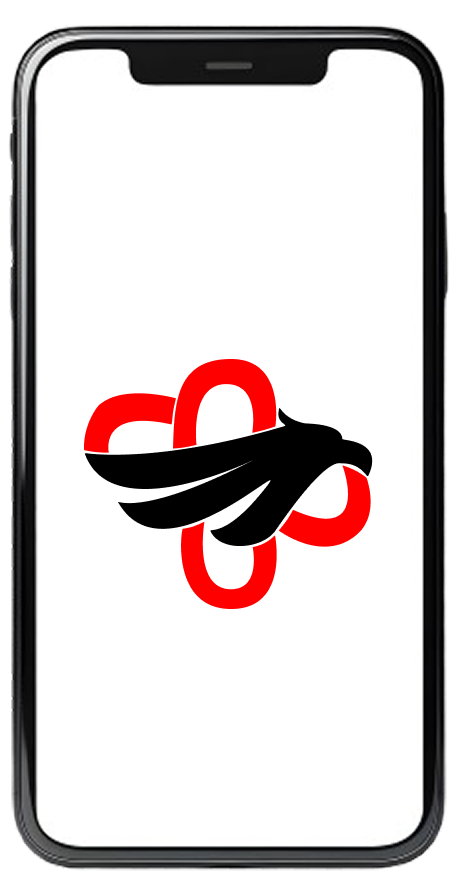
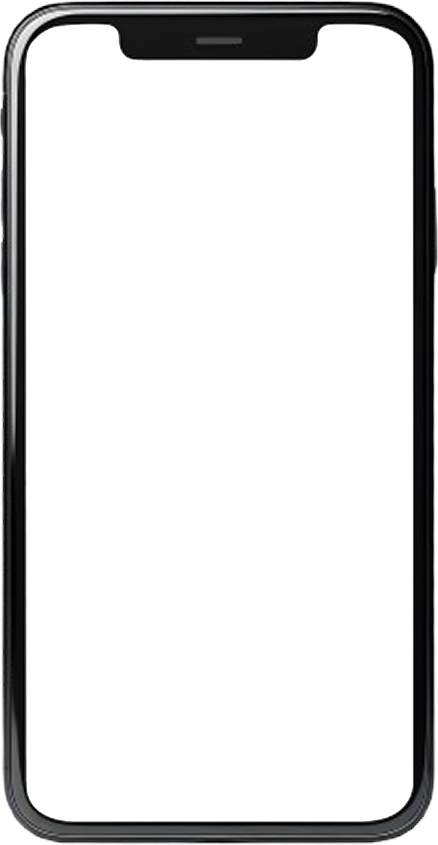
Home page complete

Changed region(s): [[0.0, 0.0, 1.0, 1.0], [0.1781, 0.4, 0.8311, 0.7077]]

diff --git a/app/faqs/page.js b/app/faqs/page.js
@@ -1,6 +1,13 @@
 'use client'
 import Accordion from 'react-bootstrap/Accordion';
+import SocialBox from '../components/commons/socialBox';
 
+const faqsdata = [
+    {'title':'How does Peekshorts summarize news?','content':'lorem ipsum dotemm bottem'},
+    {'title':'Is the news unbiased?','content':'lorem ipsum dotemm bottem'},
+    {'title':'Can I suggest a news source?','content':'lorem ipsum dotemm bottem'},
+    {'title':'Is Peekshorts free?','content':'lorem ipsum dotemm bottem'},
+]
 
 export default function FaqsPage(){
     return(
@@ -16,66 +23,23 @@ export default function FaqsPage(){
                         <h2 className="fs-1">Got Questions?<br/> 
                             <span className="text-danger">We’ve Got Answers.</span>
                         </h2>
+                        <p className='small'>We believe in transparency and keeping things simple. Here are some common questions about Peekshorts:</p>
                     </div>
                     <div className='col-md-6'>
                     <Accordion>
-                            <Accordion.Item eventKey="0">
-                                <Accordion.Header>How does Peekshorts summarize news?</Accordion.Header>
+                        {faqsdata.map((faq,index)=>(
+                            <Accordion.Item eventKey={index} index={index} className='mb-3 rounded-0 border'>
+                                <Accordion.Header >{faq.title}</Accordion.Header>
                                 <Accordion.Body>
-                                Lorem ipsum dolor sit amet, consectetur adipiscing elit, sed do
-                                eiusmod tempor incididunt ut labore et dolore magna aliqua. Ut enim ad
-                                minim veniam, quis nostrud exercitation ullamco laboris nisi ut
-                                aliquip ex ea commodo consequat. Duis aute irure dolor in
-                                reprehenderit in voluptate velit esse cillum dolore eu fugiat nulla
-                                pariatur. Excepteur sint occaecat cupidatat non proident, sunt in
-                                culpa qui officia deserunt mollit anim id est laborum.
+                                {faq.content}
                                 </Accordion.Body>
                             </Accordion.Item>
-
-                            <Accordion.Item eventKey="1">
-                                <Accordion.Header> Is the news unbiased?</Accordion.Header>
-                                <Accordion.Body>
-                                Lorem ipsum dolor sit amet, consectetur adipiscing elit, sed do
-                                eiusmod tempor incididunt ut labore et dolore magna aliqua. Ut enim ad
-                                minim veniam, quis nostrud exercitation ullamco laboris nisi ut
-                                aliquip ex ea commodo consequat. Duis aute irure dolor in
-                                reprehenderit in voluptate velit esse cillum dolore eu fugiat nulla
-                                pariatur. Excepteur sint occaecat cupidatat non proident, sunt in
-                                culpa qui officia deserunt mollit anim id est laborum.
-                                </Accordion.Body>
-                            </Accordion.Item>
-
-                            <Accordion.Item eventKey="1">
-                                <Accordion.Header>Can I suggest a news source?</Accordion.Header>
-                                <Accordion.Body>
-                                Lorem ipsum dolor sit amet, consectetur adipiscing elit, sed do
-                                eiusmod tempor incididunt ut labore et dolore magna aliqua. Ut enim ad
-                                minim veniam, quis nostrud exercitation ullamco laboris nisi ut
-                                aliquip ex ea commodo consequat. Duis aute irure dolor in
-                                reprehenderit in voluptate velit esse cillum dolore eu fugiat nulla
-                                pariatur. Excepteur sint occaecat cupidatat non proident, sunt in
-                                culpa qui officia deserunt mollit anim id est laborum.
-                                </Accordion.Body>
-                            </Accordion.Item>
-
-                            <Accordion.Item eventKey="1">
-                                <Accordion.Header> Is Peekshorts free?</Accordion.Header>
-                                <Accordion.Body>
-                                Lorem ipsum dolor sit amet, consectetur adipiscing elit, sed do
-                                eiusmod tempor incididunt ut labore et dolore magna aliqua. Ut enim ad
-                                minim veniam, quis nostrud exercitation ullamco laboris nisi ut
-                                aliquip ex ea commodo consequat. Duis aute irure dolor in
-                                reprehenderit in voluptate velit esse cillum dolore eu fugiat nulla
-                                pariatur. Excepteur sint occaecat cupidatat non proident, sunt in
-                                culpa qui officia deserunt mollit anim id est laborum.
-                                </Accordion.Body>
-                            </Accordion.Item>
-
-
-                            </Accordion>
+                        ))}
+                    </Accordion>
                     </div>
                 </div>
             </div>
+            <SocialBox/>
         </>
     )
 }

diff --git a/app/about/page.js b/app/about/page.js
@@ -11,14 +11,41 @@ export default function About(){
                         <img className="w-100 rounded-4" src="https://images.pexels.com/photos/3183197/pexels-photo-3183197.jpeg?cs=srgb&dl=pexels-fauxels-3183197.jpg&fm=jpg" /> 
                     </div>
                     <div className="col-md-6">
-                        <h2>We team</h2>
-                        <p>Lorem ipsum dolor sit amet, consectetur adipiscing elit. Mauris egestas pharetra velit in vestibulum. Proin id felis nisl. Maecenas velit leo, aliquam a nisi in, ultrices dapibus eros. Integer sollicitudin leo id ligula aliquet, in efficitur leo scelerisque. Nullam auctor tincidunt massa vel pretium.<br/> Curabitur sed justo sit amet tellus ornare sollicitudin ut a neque. Donec mauris est, ullamcorper sit amet porttitor vulputate, condimentum at odio. Cras justo erat, consectetur id erat a, posuere convallis neque. Nunc malesuada eget turpis quis porta. Mauris suscipit pretium turpis, at malesuada tortor euismod id. Aliquam sagittis posuere leo. Sed vitae quam vitae mauris rutrum euismod. Phasellus blandit, augue quis sollicitudin venenatis, libero arcu tincidunt risus, sit amet maximus tellus sapien dictum sapien. Donec at hendrerit metus.<br/> Maecenas mattis velit in molestie feugiat. Vestibulum ante ipsum primis in faucibus orci luctus et ultrices posuere cubilia curae;</p>
+                        <h2 className="fw-semibold">Revolutionizing News – One Summary at a Time</h2>
+                        <p>In an era where information overload is the norm, staying informed shouldn't feel like a chore. At Peekshorts, we believe news should be quick, reliable, and easy to digest. </p>
+                        <p>That’s why we’ve built an AI-powered platform that delivers 60-word summaries of the most important stories—so you can stay updated in seconds, not hours.</p>
                     </div>
                 </div>
             </div>
 
-            <div className="my-5 container">
-                <img className="w-100 rounded-4" src="https://workspacestrat.com/wp-content/uploads/2022/07/workspace-strategies-coworking-office-spaces-team-builing-teamwork.jpg" />
+            <div className="container py-5">
+                <h2 className="text-center fw-bold">Why Choose Peekshorts?</h2>
+                <div className="row my-5">
+                    <div className="col-md-3">
+                        <h4 className="fw-semibold">Seamless News Bites</h4>
+                        <p className="small">Traditional articles can be overwhelming. Peekshorts simplifies the news, distilling key facts into short, engaging summaries without losing their essence.
+                        </p>
+                    </div>
+                    <div className="col-md-3">
+                        <h4 className="fw-semibold">Fast & Reliable Updates                        </h4>
+                        <p className="small">We prioritize accuracy and speed, ensuring you receive the latest news without delays or unnecessary clutter.
+                        </p>
+                    </div>
+                    <div className="col-md-3">
+                        <h4 className="fw-semibold">Unbiased & Fact-Driven</h4>
+                        <p className="small">We cut through opinions and speculation to bring you neutral, well-researched content, sourced from credible news platforms.</p>
+                    </div>
+                    <div className="col-md-3">
+                        <h4 className="fw-semibold">AI Tailored Insights</h4>
+                        <p className="small">Our smart algorithms understand what matters to you. Get a customized feed based on your interests—whether it’s politics, business, tech, or entertainment.</p>
+                    </div>
+                </div>
+            </div>
+
+            <div className="container-fluid py-5 bg-dark">
+                <div className="container">
+                    
+                </div>
             </div>
         </>
     )

diff --git a/app/components/home-components/homeFeaturesSesction.js b/app/components/home-components/homeFeaturesSesction.js
@@ -1,3 +1,9 @@
+import { IoNewspaperSharp } from "react-icons/io5";
+import { MdOutlineQuickreply } from "react-icons/md";
+import { MdPermDeviceInformation } from "react-icons/md";
+import { GiVibratingSmartphone } from "react-icons/gi";
+
+
 
 
 export default function HomeFeaturesSection(){
@@ -8,25 +14,45 @@ export default function HomeFeaturesSection(){
             <h4 className=" fs-1">See Everything in Action – News at Lightning Speed!</h4>
             
             </div>
-            <div className="row justify-content-center align-items-center">
+            <div className="row justify-content-center align-items-center px-4">
                 <div className="col-md-4">
-                <img style={{ width: 'auto', height: '70vh' }} className="d-block mx-auto mt-5" src={'/images/home/peakshorts-Mobile.png'} />
+                <div className="mobile-wrapper-home my-3">   
+                    {/* <img  className="h-100" src={'/images/home/peakshorts-Mobile.png'} /> */}
+                    <div className="mobile-slides">
+                        <div className="mobile-slide">
+                            <img className="w-100" src="/images/logos/Peekshorts logo.svg" />
+                        </div>
+                    </div>
+                </div> 
                 </div>
 
                 <div className="col-md-4">
                     <div className="row g-3">
-                        <div className="col-md-6">
-                            <div className="feature-box"></div>
+                        <div className="col-6">
+                            <div className="feature-box">
+                            <IoNewspaperSharp size={'5rem'} />
+                            <h5 className="fw-semibold">Latest News</h5>
+                            </div>
                         </div>
-                        <div className="col-md-6">
-                            <div className="feature-box"></div>
+                        <div className="col-6">
+                            <div className="feature-box">
+                            <MdPermDeviceInformation size={'5rem'} />
+                            <h5 className="fw-semibold">Never miss an update</h5>
+                            </div>
                         </div>
-                        <div className="col-md-6">
-                            <div className="feature-box"></div>
+                        <div className="col-6">
+                            <div className="feature-box">
+                            <MdOutlineQuickreply  size={'5rem'} />
+                            <h5 className="fw-semibold">Flash Support</h5>
+                            </div>
                         </div>
-                        <div className="col-md-6">
-                            <div className="feature-box"></div>
+                        <div className="col-6">
+                            <div className="feature-box">
+                            <GiVibratingSmartphone size={'5rem'} />
+                            <h5 className="fw-semibold">Stay ahead of the curve</h5>
+                            </div>
                         </div>
+                        
                     </div>
                 </div>
             

diff --git a/app/style.css b/app/style.css
@@ -1,8 +1,9 @@
-@import url('https://fonts.googleapis.com/css2?family=Poppins:ital,wght@0,100;0,200;0,300;0,400;0,500;0,600;0,700;0,800;0,900;1,100;1,200;1,300;1,400;1,500;1,600;1,700;1,800;1,900&display=swap');
+@import url('https://fonts.googleapis.com/css2?family=Roboto+Condensed:ital,wght@0,100..900;1,100..900&display=swap');
 
 :root {
-  --theme-color:#ff651b ;
+  --theme-color:#ff353a ;
   --theme-secondary-color: rgb(44, 128, 255);
+  --light-gray:#e3e3e3;
 }
 
 /* @media (prefers-color-scheme: dark) {
@@ -20,8 +21,12 @@ html,
 body {
   max-width: 100vw;
   overflow-x: hidden;
-  font-family: "Poppins", serif;
+  font-family: "Roboto Condensed", serif;
 
+}
+
+.text-theme{
+  color: var(--theme-color) !important;
 }
 
 .bg-theme{
@@ -86,7 +91,7 @@ body {
 
 .news-box-label{
   display: inline-block;
-  background: red;
+  background:var(--theme-color);
   color: white;
   padding: 2px 18px;
   text-align: center;
@@ -130,9 +135,64 @@ body {
 .feature-box{
   width: 100%;
   aspect-ratio: 4/4;
-  background: grey;
+  background: var(--light-gray);
   border-radius: 1rem;
+  display: flex;
+  flex-direction: column;
+  align-items: center;
+  justify-content: center;
+  padding: 1rem;
 }
+
+.mobile-wrapper-home{
+  position: relative;
+  width: auto;
+  height: 70vh;
+  margin:auto;
+  aspect-ratio: 8/16;
+  border: 14px solid black;
+  border-radius: 1.5rem;
+  z-index: 5;
+}
+
+.mobile-wrapper-home::before{
+  content: "";
+  height: 8px;
+  width: 8px;
+  position: absolute;
+  top: -11px;
+  left: 0;
+  right: 0;
+  margin: auto;
+  border-radius: 80px;
+  background: #fff;
+  z-index: 6;
+  opacity: 0.6;
+  overflow: hidden;
+}
+
+.mobile-slides{
+  position: absolute;
+  top:0;
+  left: 0;
+  height: 100%;
+  width: 100%;
+  z-index: 2;
+  border-radius: 0.6rem;
+  overflow: hidden;
+}
+.mobile-slide{
+  height: 100%;
+  width: 100%;
+  background: white;
+  padding: 1.2rem;
+  display: flex;
+  flex-direction: column;
+  align-items: center;
+  justify-content:center ;
+}
+
+
 
 .news-cartd-section{
   height: 100vh;

diff --git a/app/components/commons/navbar.js b/app/components/commons/navbar.js
@@ -9,18 +9,18 @@ export default function Navbar(){
 
     return(
     <>
-        <nav className="navbar navbar-fixed navbar-expand-lg bg-theme ">
+        <nav className="navbar navbar-fixed navbar-expand-lg bg-light">
             <div className="container">
-                <Link className="navbar-brand text-white" href={'/'}>PeekShorts</Link>
+                <Link className="navbar-brand" href={'/'}> <img src="/images/logos/Peekshorts logo.svg" width={'60px'} /> Peek<strong className="text-theme">Shorts</strong></Link>
                 <button className="navbar-toggler" onClick={()=>{setShow(!show)}} type="button" data-bs-toggle="collapse" data-bs-target="#navbarNavAltMarkup" aria-controls="navbarNavAltMarkup" aria-expanded="false" aria-label="Toggle navigation">
                 <span className="navbar-toggler-icon"></span>
                 </button>
                 <div className={`collapse navbar-collapse ${show?'show':''}`} id="navbarNavAltMarkup">
                 <div className="navbar-nav ms-auto" onClick={()=>{setShow(false)}}>
                     {/* <Link className="nav-link text-white active" href={'/news'}>News</Link> */}
-                    <Link className="nav-link text-white" href={'/about'}>About</Link>
-                    <Link className="nav-link text-white" href={'/contact'}>Contact</Link>
-                    <Link className="nav-link text-white" href={'/download'}>Download Now</Link>
+                    <Link className="nav-link " href={'/about'}>About</Link>
+                    <Link className="nav-link " href={'/contact'}>Contact</Link>
+                    <Link className="nav-link " href={'/download'}>Download Now</Link>
 
                 </div>
                 </div>

diff --git a/app/components/commons/socialBox.js b/app/components/commons/socialBox.js
@@ -1,0 +1,27 @@
+import { FaFacebook  } from "react-icons/fa";
+import { FaSquareXTwitter } from "react-icons/fa6";
+import { BsInstagram } from "react-icons/bs";
+
+
+
+
+export default function SocialBox({title,content}){
+    return(
+        <>
+        <div className="container py-5">
+            <div style={{maxWidth:'500px'}}>
+                <h2>{title??'Need more help? Reach out to us here. 💙'}</h2>
+                <p>{content??"Follow us on social media for the latest updates, news, and exclusive content."}</p>
+                <div className="my-5">
+                    <div className="d-flex flex-wrap" style={{gap:'1rem'}}>
+                        <FaFacebook size={40} color={'#1877F2'} />
+                        <FaSquareXTwitter size={40} />
+                        <BsInstagram size={40} color={'#D62976 '}  />
+
+                    </div>
+                </div>
+            </div>
+        </div>
+        </>
+    )
+}

diff --git a/app/contact/page.js b/app/contact/page.js
@@ -1,3 +1,4 @@
+import SocialBox from "../components/commons/socialBox";
 import ContactForm from "./ContactForm";
 
 
@@ -28,6 +29,7 @@ export default function ContactPage(){
             </div>
             </div>
 
+        <SocialBox title={'Stay Connected!'} content={'Follow us on social media for the latest updates, news, and exclusive content.'}/>
 
     </>)
 
